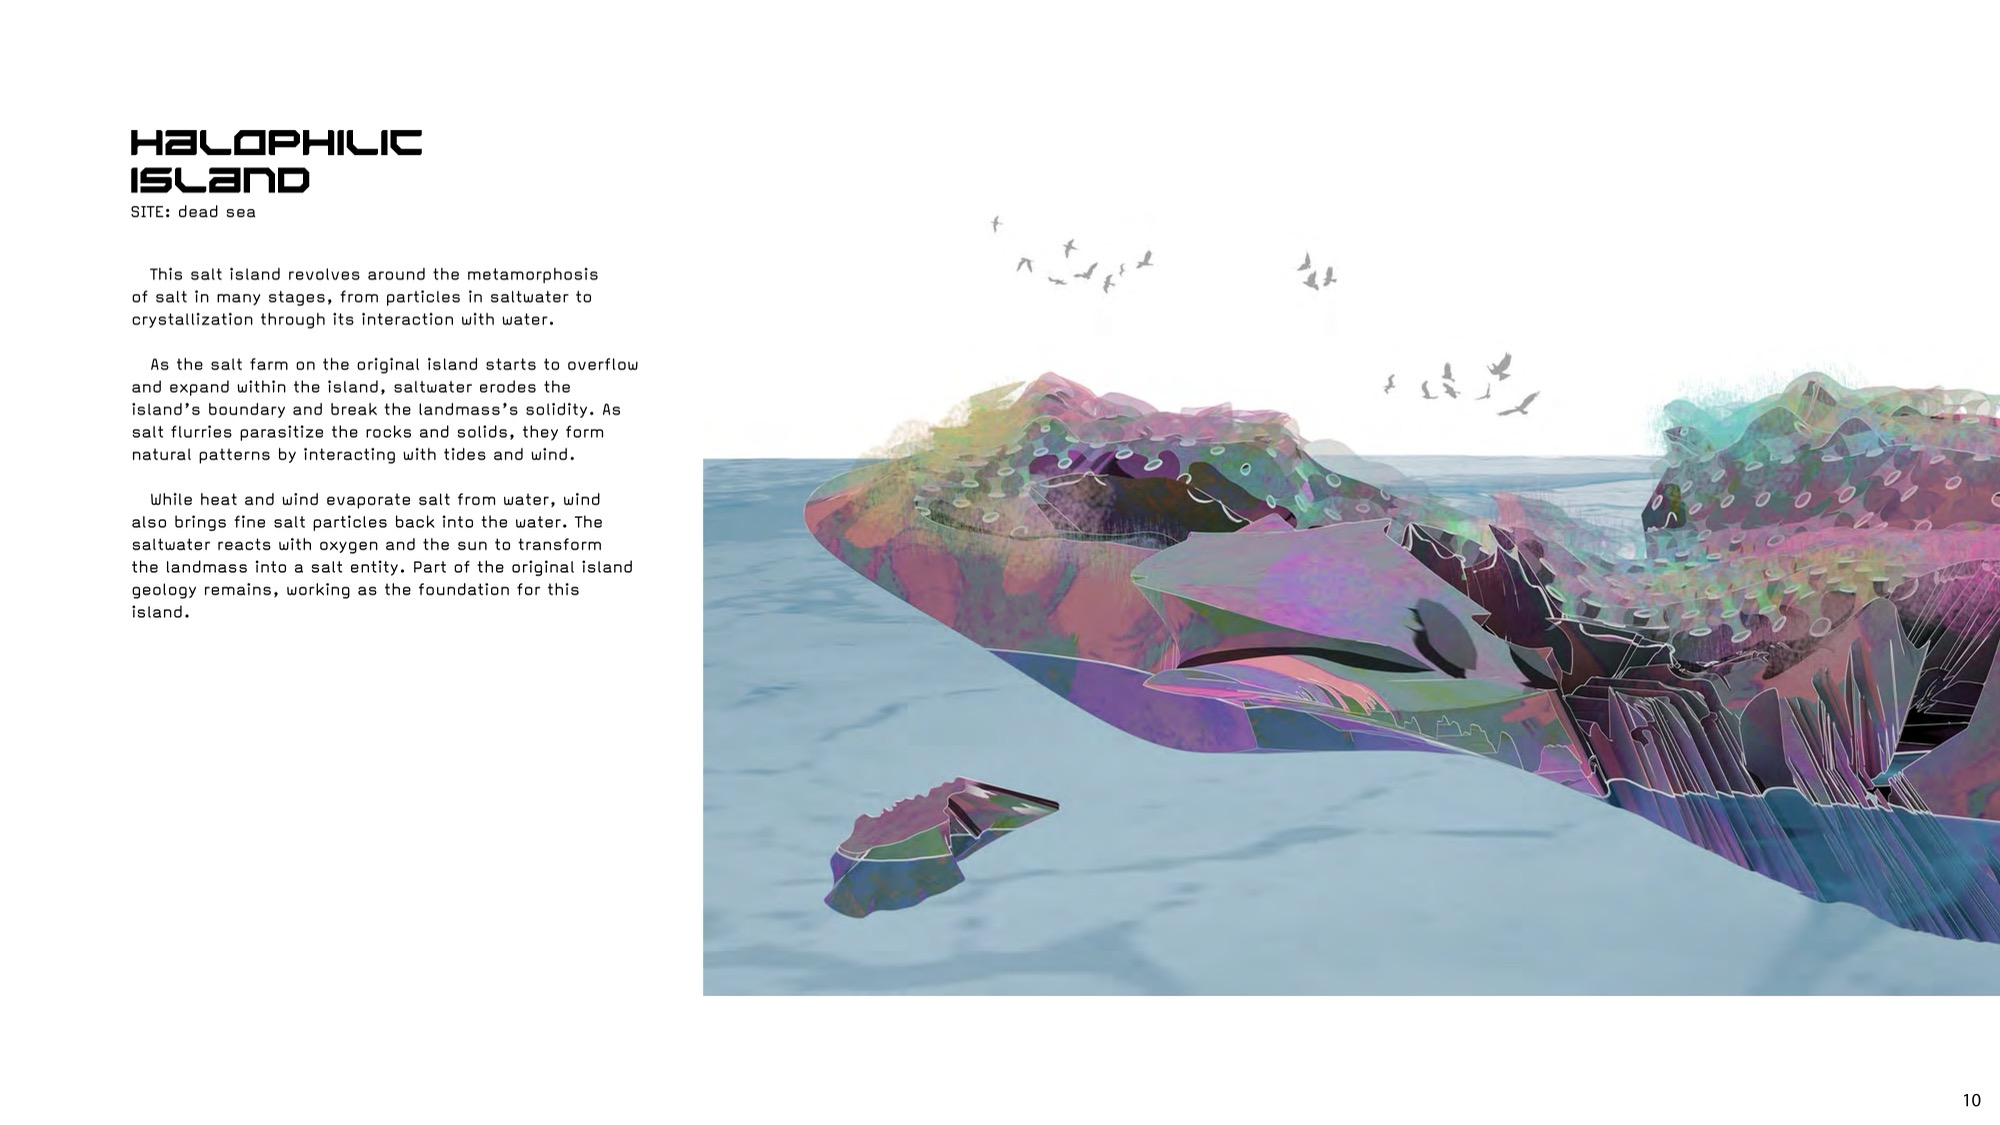
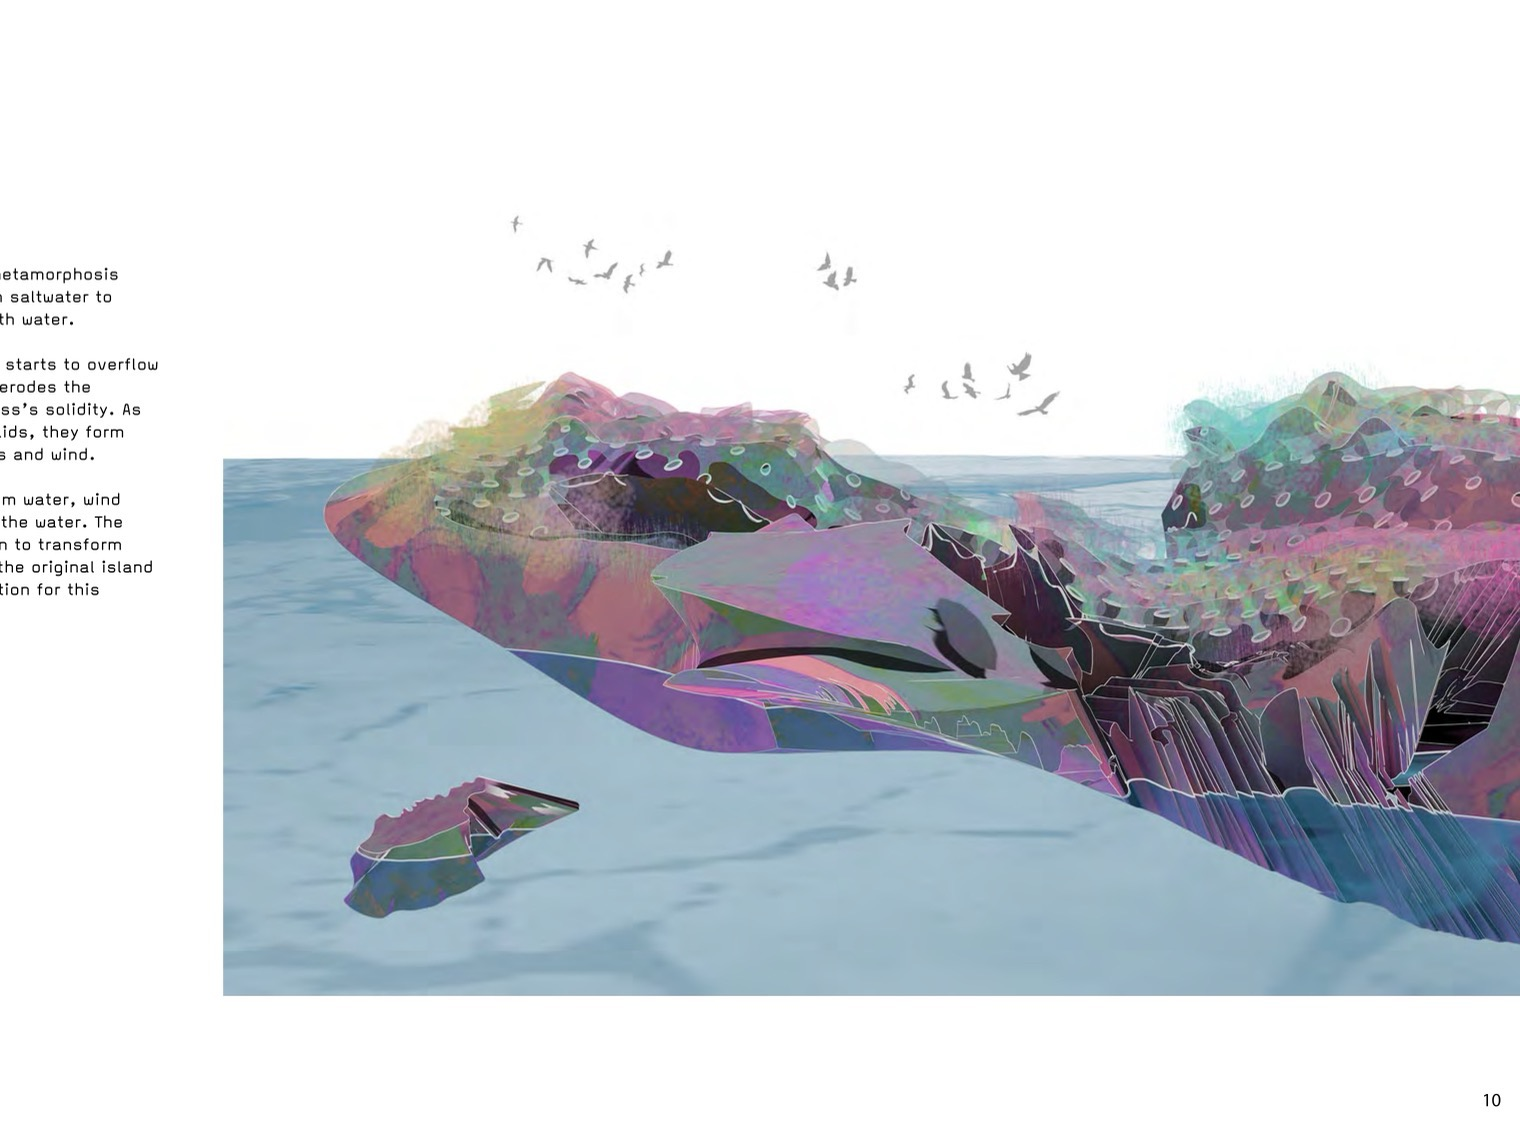
Remove text from images, move captions inside image blocks
Images:
- redhook/01.jpg: cropped left text block (x<480), render only
- halophilic/01.jpg: cropped left text block (x<480), render only
- redhook/04.jpg: cropped bottom paragraph text (y>750), renders only

HTML (both project pages):
- .img-block: removed display:flex so captions flow below images naturally
- .caption: added margin-bottom:0, moved inside .img-block div so
  each caption is structurally and visually bound to its image

diff --git a/projects/redhook-rain-story.html b/projects/redhook-rain-story.html
@@ -69,8 +69,6 @@
 
     .img-block {
       margin: 3rem 0;
-      display: flex;
-      justify-content: center;
     }
 
     .img-block img {
@@ -84,6 +82,7 @@
       letter-spacing: 0.08em;
       opacity: 0.4;
       margin-top: 0.75rem;
+      margin-bottom: 0;
       max-width: 38rem;
     }
   </style>
@@ -101,7 +100,7 @@
     <p>Climbing plants and moss grow naturally in moisturized condition. Water tanks, pipes, water apparatus are industrial places for facade plants to grow and expand. As rain falls into the water retaining installment on the facade, some will escape from the water management system and dance with the plants instead. The filtered water will feed the plants on the 3D printed soil wall through the managed system. The excessive water will go into the gray water system and support human activities like eco brick or soil printing.</p>
 
     <div class="img-block">
-      <img src="../image/redhook/01.jpg" alt="Redhook Rain Story — title spread">
+      <img src="../image/redhook/01.jpg" alt="Facade render — climbing plants and water apparatus">
     </div>
 
     <div class="img-block">
@@ -114,19 +113,19 @@
 
     <div class="img-block">
       <img src="../image/redhook/03.jpg" alt="Plans: bio-filter and facade system research lab">
+      <p class="caption">Plans: bio-filter and facade system research lab / facade plant research lab</p>
     </div>
-    <p class="caption">Plans: bio-filter and facade system research lab / facade plant research lab</p>
 
-    <h2>Case Study: AT&T Longline</h2>
+    <h2>Case Study: AT&amp;T Longline</h2>
 
-    <p>The water filtration device occupies the facade with winter jasmine to rejuvenate the facade with greenery and potentials of attracting bird and butterflies back to this concrete forest. It's a small step to bring back some of the pre-colonial nature back to Red Hook. The filters capture rainwater for manufacturing and the gray water system like lavatories.</p>
+    <p>The water filtration device occupies the facade with winter jasmine to rejuvenate the facade with greenery and potentials of attracting birds and butterflies back to this concrete forest. It's a small step to bring back some of the pre-colonial nature back to Red Hook. The filters capture rainwater for manufacturing and the gray water system like lavatories.</p>
 
     <p>The case study focuses on revitalizing brutalist concrete building blocks with this modular water collection facade system to attract insects and animals with self-sustainable facade plants.</p>
 
     <div class="img-block">
       <img src="../image/redhook/04.jpg" alt="Case Study: AT&T Longline facade application">
+      <p class="caption">Case Study: AT&amp;T Longline facade application</p>
     </div>
-    <p class="caption">Case Study: AT&T Longline facade application</p>
 
     <div class="img-block">
       <img src="../image/redhook/05.jpg" alt="Section drawings and facade detail">
@@ -136,8 +135,8 @@
 
     <div class="img-block">
       <img src="../image/redhook/06.jpg" alt="Red Hook Grain Terminal facade transformation">
+      <p class="caption">Red Hook Grain Terminal facade transformation — view on staircase</p>
     </div>
-    <p class="caption">Red Hook Grain Terminal facade transformation — view on staircase</p>
 
     <div class="img-block">
       <img src="../image/redhook/07.jpg" alt="Interior render">

diff --git a/projects/halophilic-island.html b/projects/halophilic-island.html
@@ -69,8 +69,6 @@
 
     .img-block {
       margin: 3rem 0;
-      display: flex;
-      justify-content: center;
     }
 
     .img-block img {
@@ -84,6 +82,7 @@
       letter-spacing: 0.08em;
       opacity: 0.4;
       margin-top: 0.75rem;
+      margin-bottom: 0;
       max-width: 38rem;
     }
   </style>
@@ -101,15 +100,15 @@
     <p>As the salt farm on the original island starts to overflow and expand within the island, saltwater erodes the island's boundary and breaks the landmass's solidity. As salt flurries parasitize the rocks and solids, they form natural patterns by interacting with tides and wind. While heat and wind evaporate salt from water, wind also brings fine salt particles back into the water. The saltwater reacts with oxygen and the sun to transform the landmass into a salt entity. Part of the original island geology remains, working as the foundation for this island.</p>
 
     <div class="img-block">
-      <img src="../image/halophilic/01.jpg" alt="Halophilic Island — title spread and landscape render">
+      <img src="../image/halophilic/01.jpg" alt="Halophilic Island — landscape render">
     </div>
 
     <h2>Salt Accumulation</h2>
 
     <div class="img-block">
       <img src="../image/halophilic/02.jpg" alt="Salt water diagrams and island views">
+      <p class="caption">Accumulation of salt through sea water evaporation — island top view and bottom view. Saturated colors represent lower salt concentration and high density of halophilic bacteria. Sectional change of salt erosion happening to the island.</p>
     </div>
-    <p class="caption">Accumulation of salt through sea water evaporation — island top view and bottom view. Saturated colors represent lower salt concentration and high density of halophilic bacteria. Sectional change of salt erosion happening to the island.</p>
 
     <div class="img-block">
       <img src="../image/halophilic/03.jpg" alt="Island section drawing">